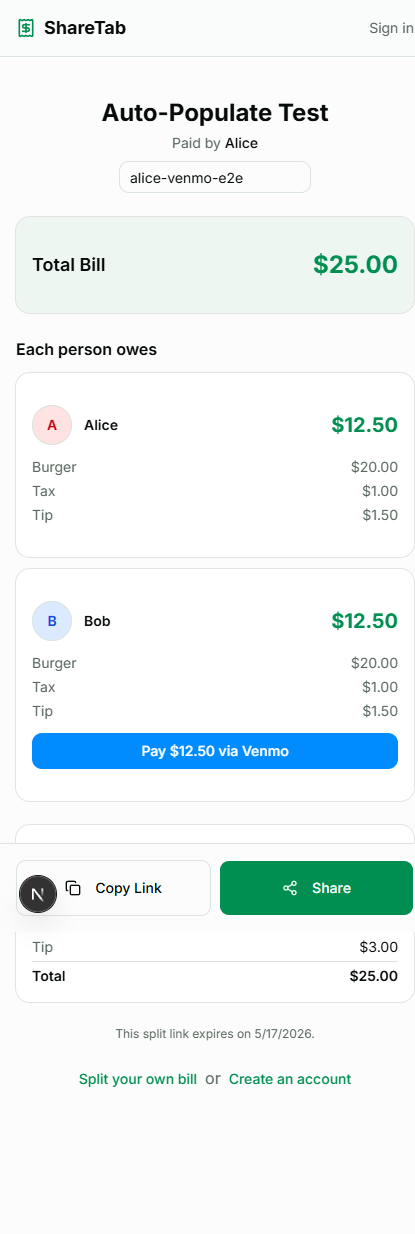
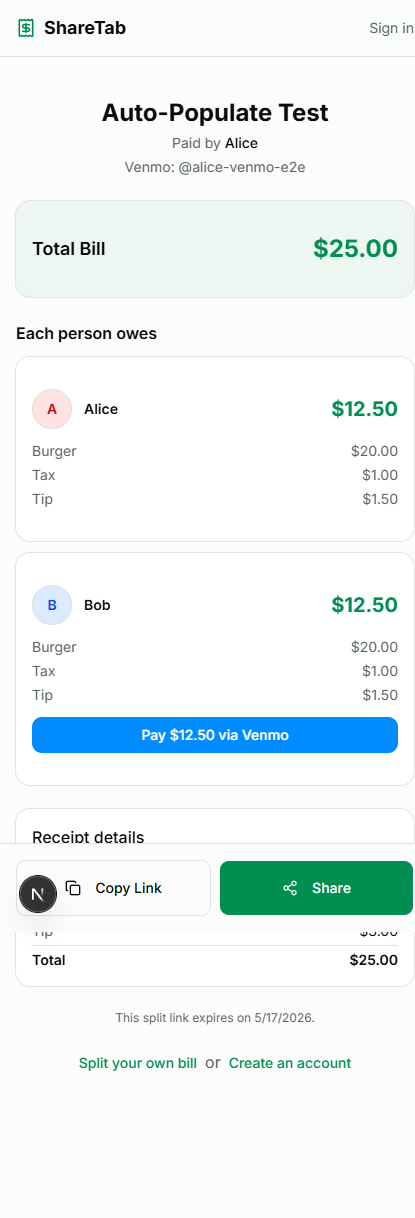
fix: restrict Venmo handle editing to split creator only
- Add isCreator boolean to getSplit/getSession responses
- setPayerVenmoHandle mutation rejects non-creators (FORBIDDEN)
- Guests see handle as read-only text, creator sees editable input
- Updated e2e tests and screenshots to reflect read-only guest view

diff --git a/src/app/[locale]/split/[token]/page.tsx b/src/app/[locale]/split/[token]/page.tsx
@@ -136,25 +136,31 @@ export default function SharedSplitPage({
           Paid by <span className="font-medium text-foreground">{paidBy}</span>
         </p>
         {venmoSetting.data?.enabled && currency === "USD" && (
-          <div className="flex items-center justify-center gap-2 mt-2">
-            <Input
-              placeholder={tv("handlePlaceholder")}
-              aria-label={tv("handle")}
-              value={venmoHandle}
-              onChange={(e) => {
-                setVenmoHandle(e.target.value);
-                try { localStorage.setItem("sharetab-venmo-handle", e.target.value); } catch { /* storage unavailable */ }
-              }}
-              onBlur={() => {
-                const trimmed = venmoHandle.trim() || null;
-                if (trimmed !== (split.data?.payerVenmoHandle ?? null)) {
-                  setPayerVenmoHandle.mutate({ token, handle: trimmed });
-                }
-              }}
-              className="h-8 text-sm max-w-48"
-              data-testid="venmo-handle-input"
-            />
-          </div>
+          split.data?.isCreator ? (
+            <div className="flex items-center justify-center gap-2 mt-2">
+              <Input
+                placeholder={tv("handlePlaceholder")}
+                aria-label={tv("handle")}
+                value={venmoHandle}
+                onChange={(e) => {
+                  setVenmoHandle(e.target.value);
+                  try { localStorage.setItem("sharetab-venmo-handle", e.target.value); } catch { /* storage unavailable */ }
+                }}
+                onBlur={() => {
+                  const trimmed = venmoHandle.trim() || null;
+                  if (trimmed !== (split.data?.payerVenmoHandle ?? null)) {
+                    setPayerVenmoHandle.mutate({ token, handle: trimmed });
+                  }
+                }}
+                className="h-8 text-sm max-w-48"
+                data-testid="venmo-handle-input"
+              />
+            </div>
+          ) : venmoHandle ? (
+            <p className="text-sm text-muted-foreground mt-1" data-testid="venmo-handle-display">
+              Venmo: @{venmoHandle.replace(/^@/, '')}
+            </p>
+          ) : null
         )}
       </div>
 

diff --git a/src/server/trpc/routers/guest.ts b/src/server/trpc/routers/guest.ts
@@ -455,6 +455,7 @@ export const guestRouter = createTRPCRouter({
         summary: split.summary as { personIndex: number; name: string; itemTotal: number; tax: number; tip: number; total: number }[],
         paidByIndex: split.paidByIndex,
         payerVenmoHandle: split.payerVenmoHandle,
+        isCreator: !!split.userId && split.userId === ctx.session?.user?.id,
         createdAt: split.createdAt,
         expiresAt: split.expiresAt,
       };
@@ -935,6 +936,7 @@ export const guestRouter = createTRPCRouter({
         summary: session.summary as { personIndex: number; name: string; itemTotal: number; tax: number; tip: number; total: number }[] | null,
         paidByIndex: session.paidByIndex,
         payerVenmoHandle: session.payerVenmoHandle,
+        isCreator: !!session.userId && session.userId === ctx.session?.user?.id,
         receiptImagePath,
         createdAt: session.createdAt,
         expiresAt: session.expiresAt,
@@ -1049,13 +1051,16 @@ export const guestRouter = createTRPCRouter({
 
       const split = await ctx.db.guestSplit.findUnique({
         where: { shareToken: input.token },
-        select: { id: true, expiresAt: true },
+        select: { id: true, userId: true, expiresAt: true },
       });
       if (!split) {
         throw new TRPCError({ code: "NOT_FOUND", message: "Split not found" });
       }
       if (split.expiresAt < new Date()) {
         throw new TRPCError({ code: "NOT_FOUND", message: "This split has expired" });
+      }
+      if (!split.userId || split.userId !== ctx.session?.user?.id) {
+        throw new TRPCError({ code: "FORBIDDEN", message: "Only the split creator can update the Venmo handle" });
       }
 
       await ctx.db.guestSplit.update({

diff --git a/e2e/venmo-deeplink.spec.ts b/e2e/venmo-deeplink.spec.ts
@@ -235,10 +235,11 @@ test.describe("Venmo deeplink payments", () => {
     const page = await browserCtx.newPage();
     await page.goto(`/en/split/${shareToken}`);
 
-    // The venmo handle input should be auto-populated from the split record
-    const venmoInput = page.getByTestId("venmo-handle-input");
-    await expect(venmoInput).toBeVisible({ timeout: 15000 });
-    await expect(venmoInput).toHaveValue("alice-venmo-e2e", { timeout: 10000 });
+    // Guest sees the handle as read-only text (not an editable input)
+    const venmoDisplay = page.getByTestId("venmo-handle-display");
+    await expect(venmoDisplay).toBeVisible({ timeout: 15000 });
+    await expect(venmoDisplay).toContainText("alice-venmo-e2e");
+    await expect(page.getByTestId("venmo-handle-input")).toHaveCount(0);
 
     // Pay buttons should appear for Bob (non-payer)
     const payButtons = page.locator('[data-testid^="venmo-pay-"]');

diff --git a/src/app/[locale]/split/[token]/claim/page.tsx b/src/app/[locale]/split/[token]/claim/page.tsx
@@ -499,8 +499,8 @@ export default function ClaimPage({
           </CardContent>
         </Card>
 
-        {/* Venmo handle input */}
-        {venmoSetting.data?.enabled && currency === "USD" && (
+        {/* Venmo handle */}
+        {venmoSetting.data?.enabled && currency === "USD" && (data.isCreator ? (
           <div className="flex items-center justify-center gap-2">
             <Input
               placeholder={tv("handlePlaceholder")}
@@ -520,7 +520,11 @@ export default function ClaimPage({
               data-testid="venmo-handle-input"
             />
           </div>
-        )}
+        ) : venmoHandle && (
+          <p className="text-sm text-muted-foreground text-center" data-testid="venmo-handle-display">
+            Venmo: @{venmoHandle.replace(/^@/, '')}
+          </p>
+        ))}
 
         {/* Per-person summary */}
         {data.summary && data.summary.length > 0 && (
